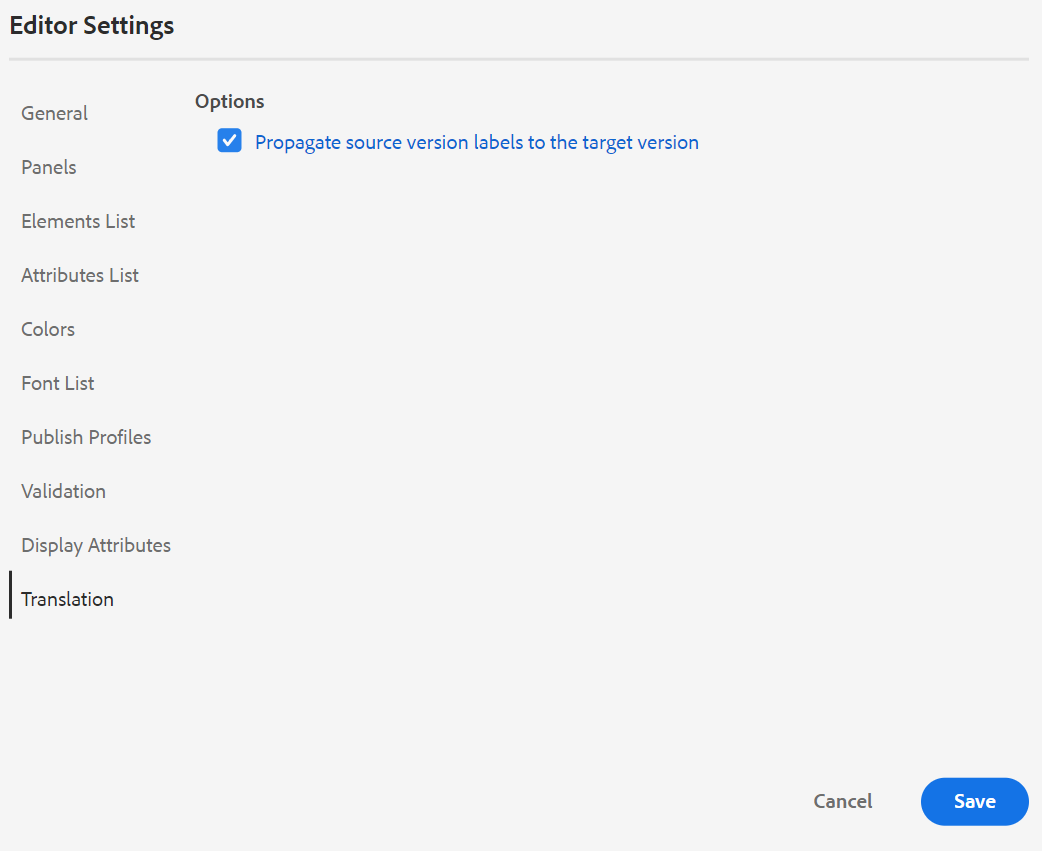
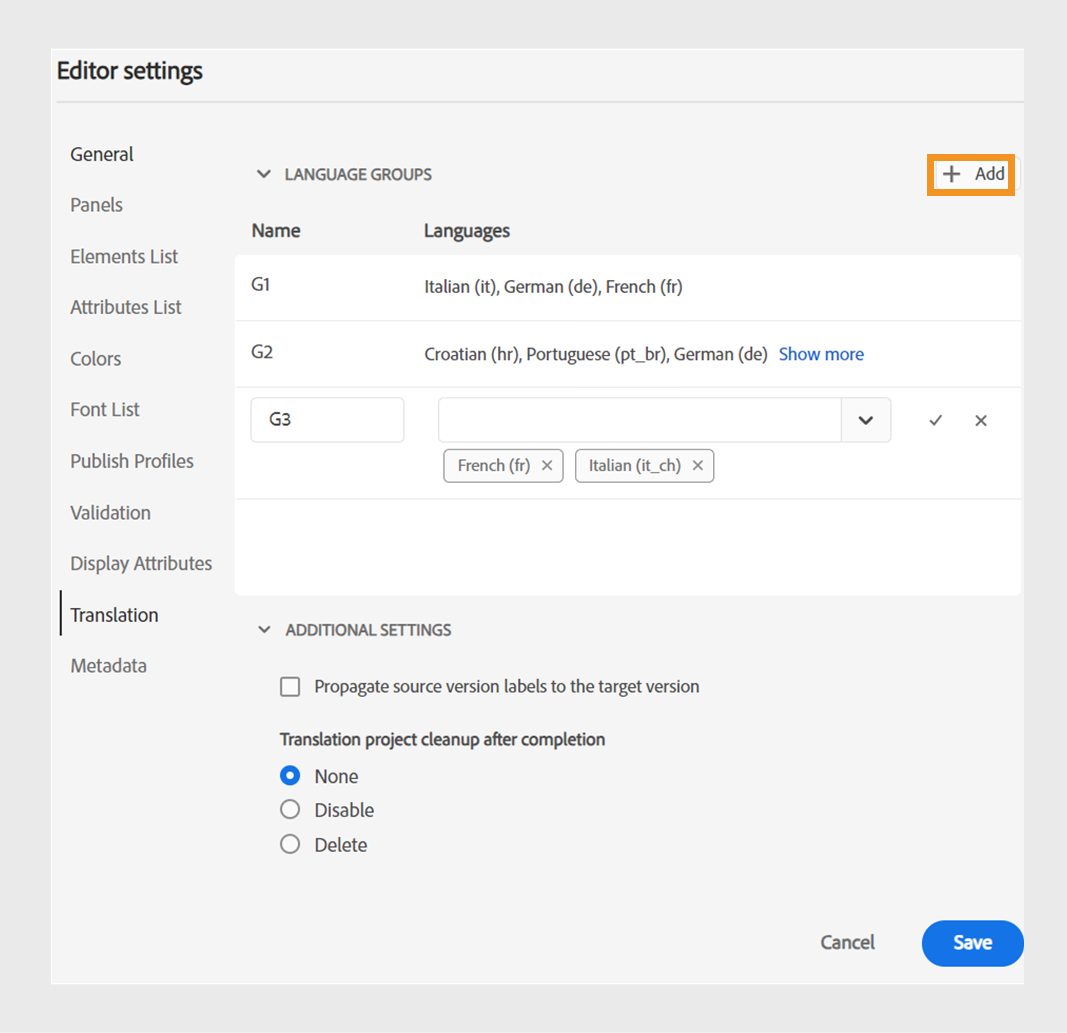
2404 updates

diff --git a/help/product-guide/user-guide/translate-documents-web-editor.md b/help/product-guide/user-guide/translate-documents-web-editor.md
@@ -30,19 +30,34 @@ Before performing steps in this procedure, ensure that you have created the requ
 
 ## Create a translation project 
 
-1.  In the Repository panel, open the DITA map file in map view.
-1.  Click the **Manage** tab. The Translation panel displays the **Available Languages** list.
-1.  From the **Available Languages** list, select the locale to which you want to translate your project. You can choose **Select all** to translate your project into all the available languages.
+1.  In the **Repository** panel, open the DITA map file in map view.
+1.  Click the **Manage** tab. The **Translation panel** displays the available language groups.
 
-    >[!NOTE]
-    >
-    > The list contains the language folders along with their language codes. For example, French \(fr\) and German \(de\).
+
+2. As a user, you can view the language groups assigned to your folder profile. The language groups display the language folders along with their language codes. For example, the language group named G1 contains Italian \(it\), German \(de\), French \(fr\), and English \(en\) language folders.
+
+    ![translation panel](images/translation-languages.png){width="300" align="left"}
+
+    *Select the language groups or languages in which you want to translate your documents.* 
+
 
     >[!IMPORTANT]
     >
-    > The list shows only those languages for which a language folder is created parallel to the source language. A language folder created at any other level, such as one level down from the source language folder is also not shown. Ensure that you create all your target language folders at the same level as your source language folder.
+    > You can only select and translate to the languages for which you have created the target folder parallel to the source language. A language folder created at any other level, such as one level down from the source language folder is also not shown. Ensure that you create all your target language folders at the same level as your source language folder.
 
-    ![](images/translation-languages.png){width="300" align="left"}
+    
+
+1. You can select any language group as a target for the translation. If you **Select all**, the selected files are translated into all the available languages within the existing language groups.
+
+    The language folder option appears grayed out and shows a warning sign:
+
+    * If the target folder for a language is missing.
+    * If the target language is the same as the source. 
+If you create the target folder for a language after creating the language group, refresh the browser to enable the language in the language groups.  
+
+1. If you choose a particular language, it appears as selected under all language groups you have selected. So, when you translate to any language, it's translated in one go for all the language groups. For example, if German is present in both G1 and G2 language groups it is selected for both of them. 
+
+1. From the **Other languages** you can choose any language for which you have created the target folder but is not a part of any language groups. 
 
 1.  You can also select one the following options to translate your project:
 

diff --git a/help/product-guide/user-guide/web-editor-features.md b/help/product-guide/user-guide/web-editor-features.md
@@ -216,7 +216,18 @@ In the following screenshot, only 3 out of 4 configured elements from the previo
 
     ![](images/editor-settings-display-attributes.png){width="550" align="left"}
 
-- **Translation**: This tab contains the option to propagate the source labels to the target version.
+- **Translation**: This tab contains the options to create language groups, propagate the source labels to the target version, and clean up the translation project. 
+
+    **Language Groups**
+    Perform the following steps to create a new language group: 
+    1.	Select the Add ![add icon](images/Add_icon.svg) icon.
+    1.	Enter the language group name. Each language should have a unique name. You can view an error if the name field is empty or if the name isn't unique. 
+    1.	Select the languages from the dropdown. You can type the first few characters of the language, or the language code to filter the desired languages. For example, type ‘en’ to filter all the languages that contain ‘en’ at the beginning of their name or code.
+    1.	Select Done to add the selected languages to the group.
+    The languages are displayed. You can select Show more to view all the languages. 
+    1.	Hover over the languages in a group to edit <icon> or delete <icon> the language groups.
+    1.	Save the Editor settings.
+        As a user, you can view the language groups assigned to your folder profile.
 
     -  **Propagate source version labels to the target version**: Select this option to pass the label of the source file version to the translated file. By default, this is disabled.
 
